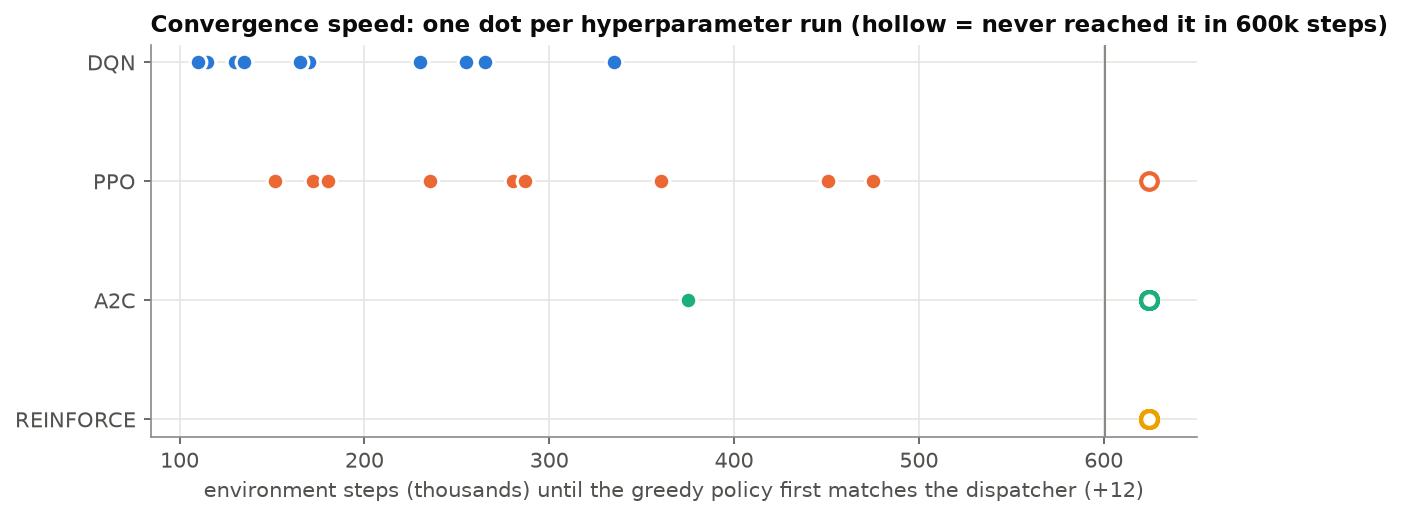
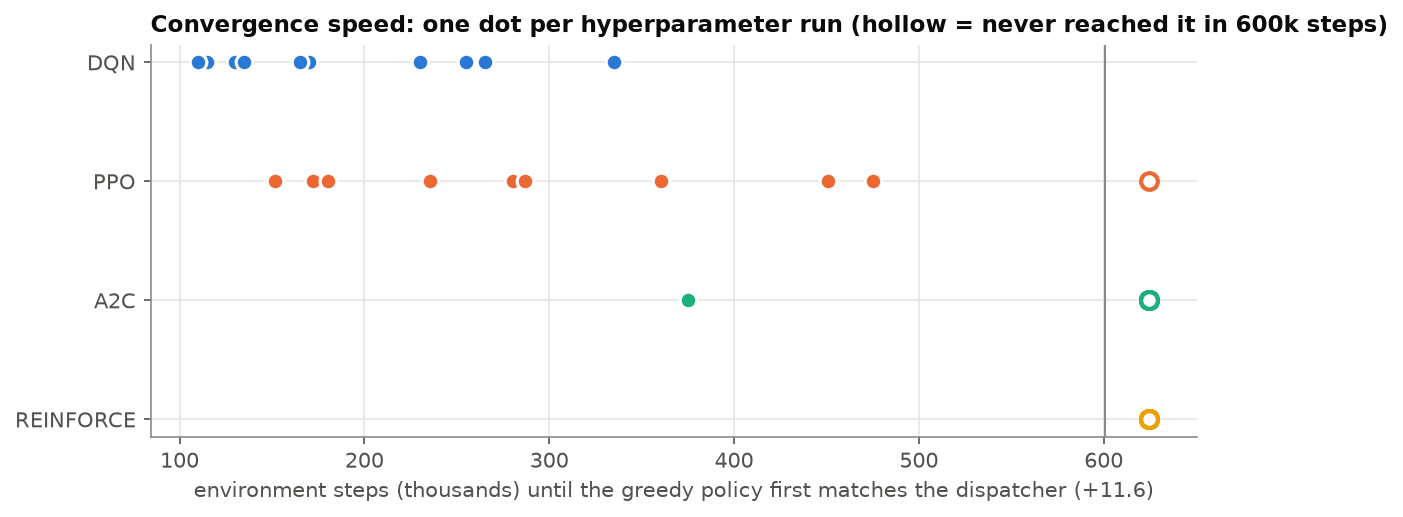
Point links at the renamed repo and label the dispatcher +11.6 in the plots

Changed region(s): [[0.1226, 0.9284, 0.8275, 0.9903]]

diff --git a/training/analyze.py b/training/analyze.py
@@ -213,7 +213,7 @@ def fig_reward_curves(data, base):
             ax.annotate(NAME[algo], (lx, ly - max(over, 0)), xytext=(8, 0), textcoords="offset points", va="center",
                         fontsize=9, color=INK, fontweight="bold", annotation_clip=False)
         h = base["heuristic"]["default"]["return_mean"]
-        ax.axhline(h, color=INK2, lw=1.2, ls=(0, (4, 3)), label=f"hand-written dispatcher ({h:+.0f})")
+        ax.axhline(h, color=INK2, lw=1.2, ls=(0, (4, 3)), label=f"hand-written dispatcher ({h:+.1f})")
         ax.set_title(title, loc="left")
         ax.set_xlabel("environment steps (thousands)")
     axes[0].set_ylabel("shift return")
@@ -318,7 +318,7 @@ def fig_convergence(data, base):
     ax.invert_yaxis()
     ax.axvline(max_f / 1000, color=MUTED, lw=1)
     ax.set_xlabel("environment steps (thousands) until the greedy policy first matches the dispatcher "
-                  f"({level:+.0f})")
+                  f"({level:+.1f})")
     ax.set_title("Convergence speed: one dot per hyperparameter run (hollow = never reached it in 600k steps)",
                  loc="left")
     fig.savefig(PLOTS / "convergence.png")

diff --git a/README.md b/README.md
@@ -59,7 +59,7 @@ uv run python -m training.dqn_training --runs 4 --seed 1             # seed repe
 uv run python -m training.analyze --retest                           # test evaluation, seed check, plots, tables
 ```
 
-The same sweeps run on Google Colab with [`training/colab.ipynb`](https://colab.research.google.com/github/supserrr/reinforcement-learning/blob/main/training/colab.ipynb) (about 2–2.5 hours on a CPU runtime).
+The same sweeps run on Google Colab with [`training/colab.ipynb`](https://colab.research.google.com/github/supserrr/shima_serein_rl_summative/blob/main/training/colab.ipynb) (about 2–2.5 hours on a CPU runtime).
 
 ## Results
 
